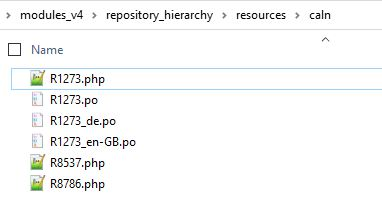
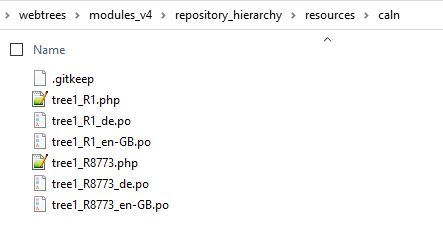
Update of Readme file

diff --git a/README.md b/README.md
@@ -38,7 +38,7 @@ To specify delimiters, the module can handle single characters as well as comple
 <a name="Contents"></a>				
 ##  Table of contents
 This README file contains the following main sections:
-*   [Overview](#Overview)
+*   [Overview](Readme.md#Overview)
 *   [Screenshot](#Screenshot)
 *   [Table of contents](#Contents)
 *   [What are the benefits of using this module?](#Benefits)
@@ -75,7 +75,7 @@ This README file contains the following main sections:
 *   [How the module maps to Gedcom and to archive management concepts](#Mapping)
 *   [Translation](#Translation)
 *   [Bugs and feature requests](#Bugs)
-*   [Github repository](#Github)
+*   [Github repository](Readme.md#Github)
 
 <a name="Benefits"></a>
 ##  What are the benefits of using this module?
@@ -241,7 +241,7 @@ While the "{new}" placeholder should be modified, the rest of the call number, w
 
 <a name="Category-titles"></a>
 ###  Provide and show titles for call number categories
-While the Repository Hierarchy module can generate call number categories from call numbers, the webtrees and GEDCOM data model does not provide features to describe the call number categories. To fill this gap, the Repository Hierarchy module offers a feature to describe and view titles for the call number categories. 
+While the Repository Hierarchy module can generate call number categories from call numbers, the webtrees and GEDCOM data model does not provide features to describe the call number categories. To fill this gap, the Repository Hierarchy module offers a possibility to describe and view titles for the call number categories. 
 
 The following two screenshots show examples for the titles in the module browser front end and in an exported finding aid.
 
@@ -251,9 +251,9 @@ The following two screenshots show examples for the titles in the module browser
 
 In order to provide titles for call number categories, the Repository Hierarchy module uses a mechanism based on [gettext](https://en.wikipedia.org/wiki/Gettext) and .po files, which is frequently used for translation of software projects. In the context of the Repository Hierarchy module, call number categories are "translated" into titles.
 
-Everytime a Repository Hierarchy for a repository is shown in the browser front end, a gettext file is generated and stored in the /resources/caln/ folder of the Repository Hierarchy module. The gettext file with the name "\<Repository XREF\>.php" contains all call number categories of the related repository.
+Everytime a repository hierarchy for a repository is shown in the browser front end, a gettext file is generated and stored in the /resources/caln/ folder of the Repository Hierarchy module. The gettext file with the name "\<tree name\>_\<repository XREF\>.php" contains all call number categories of the related repository.
 
-In order to provide category titles, the user can use a .po editor like [Poedit](https://poedit.net/) and "translate" the call number categories into titles. It is also possible to use a simple text editor; however, a .po editor offers more comfortable features for .po updates and plausibility checks. The translation files need to have the following name: "\<Repository XREF\>_\<language tag\>.po". If a .po file is provided without language tag (i.e. "\<Repository XREF\>.po"), it is used as a default for all languages without specifically provided .po files.
+In order to provide category titles, a .po editor like [Poedit](https://poedit.net/) can be used to "translate" the call number categories into titles. It is also possible to use a simple text editor; however, a .po editor offers more comfortable features for .po updates and plausibility checks. The translation files need to have the following name: "\<tree name\>_\<repository XREF\>_\<language tag\>.po". If a .po file is provided without language tag (i.e. "\<tree name\>_\<repository XREF\>.po"), it is used as a default for all languages without specifically provided .po files.
 
 An example with the related files in the /resources/caln/ folder is shown in the following screenshot.
 
